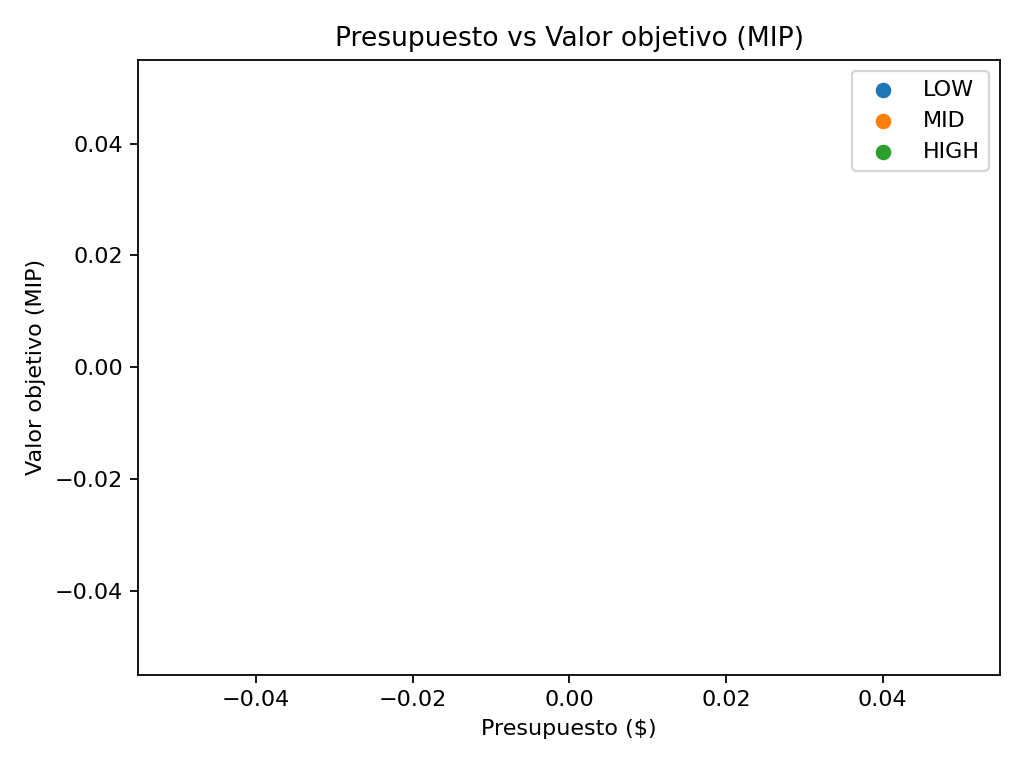
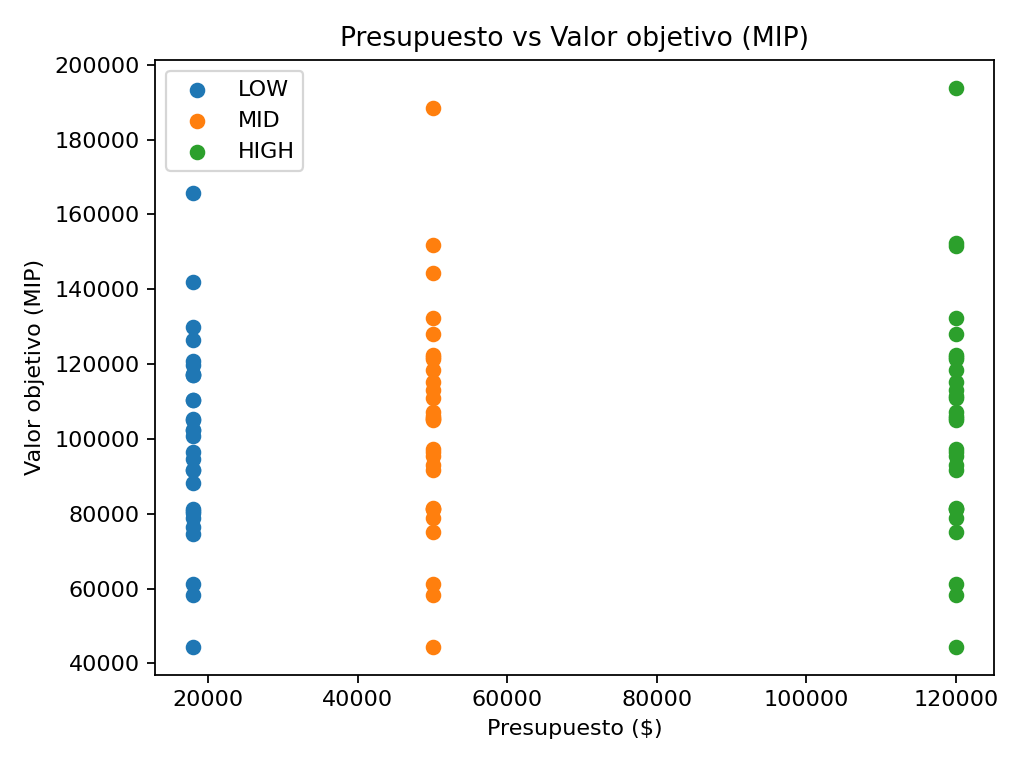
benchmark

diff --git a/optimization/remodel/benchmark_remodel.py b/optimization/remodel/benchmark_remodel.py
@@ -1,4 +1,3 @@
-# optimization/remodel/benchmark_remodel.py
 #!/usr/bin/env python3
 import argparse
 import csv
@@ -9,8 +8,7 @@ import subprocess
 import sys
 from pathlib import Path
 import os
-
-
+import pandas as pd
 import matplotlib.pyplot as plt
 
 # ============== Limpieza / normalización de salida ==============
@@ -39,15 +37,12 @@ def _search_last(pat: re.Pattern, text: str):
 # ============== Patrones (muy permisivos) ==============
 RE_OBJ = re.compile(r'Valor\s*objetivo\s*\(MIP\)\s*:\s*\$?\s*([-\d,\.]+)', re.I | re.U)
 RE_ROI = re.compile(r'\bROI\s*:\s*\$?\s*([-\d,\.]+)', re.I | re.U)
-# En tu print a veces pones un "$" antes del porcentaje; capturamos número + '%'
 RE_PCT_LINE = re.compile(r'Porcentaje\s+Neto\s+de\s+Mejoras\s*:\s*(.+)', re.I | re.U)
-RE_FIRST_NUM = re.compile(r'[-+]?\$?[\d,]+(?:\.\d+)?')     # primer número con comas/decimales
-RE_PERCENT   = re.compile(r'([-+]?\$?[\d,]+(?:\.\d+)?)\s*%')  # número seguido de %
-
+RE_FIRST_NUM = re.compile(r'[-+]?\$?[\d,]+(?:\.\d+)?')
+RE_PERCENT   = re.compile(r'([-+]?\$?[\d,]+(?:\.\d+)?)\s*%')
 RE_RT  = re.compile(r'Tiempo\s*total\s*:\s*([-\d,\.]+)s', re.I | re.U)
 
 def _parse_pct(line_tail: str) -> float | None:
-    # intenta capturar "29%" o "$29%"; si no, primer número
     m = RE_PERCENT.search(line_tail)
     if m:
         return _to_float(m.group(1))
@@ -57,7 +52,6 @@ def _parse_pct(line_tail: str) -> float | None:
     return None
 
 def _fallback_line_value(out: str, starts_with: str) -> float | None:
-    # Busca la última línea que contenga la etiqueta y extrae el primer número
     cand = None
     for ln in out.splitlines():
         if starts_with.lower() in ln.lower():
@@ -65,31 +59,30 @@ def _fallback_line_value(out: str, starts_with: str) -> float | None:
     if not cand:
         return None
     if "Porcentaje Neto de Mejoras" in starts_with:
-        # partir después de ':'
         tail = cand.split(":", 1)[-1] if ":" in cand else cand
         return _parse_pct(tail)
-    # genérico: primer número
     m = RE_FIRST_NUM.search(cand)
     return _to_float(m.group(1)) if m else None
 
-def run_once(pid: int, budget: float, py_exe: str, logdir: Path, tier: str, idx: int) -> dict:
+def run_once(pid: int, budget: float, py_exe: str, logdir: Path, tier: str, idx: int, basecsv: str | None) -> dict:
     cmd = [
         py_exe, "-m", "optimization.remodel.run_opt",
         "--pid", str(pid),
         "--budget", str(float(budget)),
     ]
+    if basecsv:
+        cmd += ["--basecsv", basecsv]
+
     cp = subprocess.run(
         cmd,
         stdout=subprocess.PIPE,
         stderr=subprocess.STDOUT,
         text=True,
-        encoding="utf-8",         # <-- fuerza decodificación UTF-8
-        errors="replace",         # <-- no muere si aparece algo raro
+        encoding="utf-8",         # decodificación UTF-8 (Windows friendly)
+        errors="replace",         # no morir por raros
         check=False,
-        env={**os.environ, "PYTHONIOENCODING": "utf-8"}  # <-- pide al hijo emitir UTF-8
+        env={**os.environ, "PYTHONIOENCODING": "utf-8"}  # hijo emite UTF-8
     )
-    out = cp.stdout or ""
-
     raw = cp.stdout or ""
     out = _clean_text(raw)
 
@@ -102,7 +95,6 @@ def run_once(pid: int, budget: float, py_exe: str, logdir: Path, tier: str, idx:
     m = _search_last(RE_ROI, out)
     if m: roi = _to_float(m.group(1))
 
-    # porcentaje: primero capturamos la línea y luego extraemos número
     m = _search_last(RE_PCT_LINE, out)
     if m:
         pct = _parse_pct(m.group(1))
@@ -120,12 +112,14 @@ def run_once(pid: int, budget: float, py_exe: str, logdir: Path, tier: str, idx:
     if rt is None:
         rt = _fallback_line_value(out, "Tiempo total")
 
+    
+
     ok = (obj is not None and roi is not None and pct is not None)
 
     # 3) Si MISS, guardar log para inspección
     if not ok:
         logdir.mkdir(parents=True, exist_ok=True)
-        log_path = logdir / f"run_{tier}_{idx:02d}.log"
+        log_path = logdir / f"run_{tier}_{idx:02d}_pid{pid}.log"
         try:
             log_path.write_text(raw, encoding="utf-8")
         except Exception:
@@ -155,10 +149,24 @@ def summarize(rows, key):
         "max": max(vals),
     }
 
+def _load_random_pids(basecsv: str, n: int, seed: int) -> list[int]:
+    """Carga PIDs del CSV base y devuelve n PIDs aleatorios únicos (o todos si hay menos)."""
+    df = pd.read_csv(basecsv)
+    if "PID" not in df.columns:
+        raise ValueError(f"El CSV '{basecsv}' no tiene columna 'PID'.")
+    pids = [int(x) for x in df["PID"].dropna().unique().tolist()]
+    random.seed(seed)
+    random.shuffle(pids)
+    return pids[:min(n, len(pids))]
+
 def main():
     ap = argparse.ArgumentParser()
-    ap.add_argument("--pid", type=int, default=528344070, help="PID de la casa (default: 528344070)")
-    ap.add_argument("--trials", type=int, default=50, help="Corridas por tier (default: 50)")
+    ap.add_argument("--basecsv", type=str, required=True,
+                    help="Ruta al CSV base (de donde se toman los PIDs al azar)")
+    ap.add_argument("--n_houses", type=int, default=50,
+                    help="Número de casas distintas a evaluar (default: 50)")
+    ap.add_argument("--trials", type=int, default=None,
+                    help="(Obsoleto en este modo) Ignorado; usamos n_houses * 3 corridas fijas por casa")
     ap.add_argument("--py", type=str, default=sys.executable, help="Python a usar (default: actual)")
     ap.add_argument("--seed", type=int, default=42, help="Semilla aleatoria (default: 42)")
     ap.add_argument("--outdir", type=str, default="bench_out", help="Carpeta de salida (CSV + figuras)")
@@ -169,22 +177,35 @@ def main():
     outdir.mkdir(parents=True, exist_ok=True)
     logdir = outdir / "logs"
 
+    # Tiers y presupuestos fijos (puntos medios de cada rango)
+    # low: 15k–40k → 27,500 | mid: 40k–75k → 57,500 | high: 75k–200k → 137,500
     tiers = {
-        "low":  (15000, 40000),
-        "mid":  (40000, 75000),
-        "high": (75000, 200000),
+        "low":  18_000.0,
+        "mid":  50_000.0,
+        "high": 120_000.0,
     }
 
+    # Cargar PIDs aleatorios de la base
+    pids = _load_random_pids(args.basecsv, args.n_houses, args.seed)
+    if not pids:
+        print("⚠ No se encontraron PIDs en el CSV base.")
+        return
+
+    print(f"Se evaluarán {len(pids)} casas distintas (PIDs aleatorios) con 3 presupuestos fijos por casa.\n")
+
     all_rows = []
-    for tier, (lo, hi) in tiers.items():
-        print(f"\n=== Tier {tier.upper()} | rango ${lo:,} – ${hi:,} | {args.trials} corridas ===")
-        for i in range(args.trials):
-            budget = random.uniform(lo, hi)
-            res = run_once(args.pid, budget, py_exe=args.py, logdir=logdir, tier=tier, idx=i+1)
+    idx_global = 0
+    for j, pid in enumerate(pids, start=1):
+        print(f"=== CASA #{j:02d} | PID={pid} ===")
+        for tier, budget in tiers.items():
+            idx_global += 1
+            res = run_once(pid, budget, py_exe=args.py, logdir=logdir, tier=tier, idx=idx_global, basecsv=args.basecsv)
             res["tier"] = tier
+            res["pid"] = pid
             all_rows.append(res)
             ok = "OK" if res["raw_ok"] else "MISS"
-            print(f"[{tier:>4}] #{i+1:02d} budget=${budget:,.0f} → obj={res['objective_mip']} roi={res['roi']} pct={res['pct_net_improve']} [{ok}]")
+            print(f"[{tier:>4}] budget=${budget:,.0f} → obj={res['objective_mip']} roi={res['roi']} pct={res['pct_net_improve']} [{ok}]")
+        print()
 
     # CSV
     csv_path = outdir / "remodel_benchmark.csv"
@@ -197,7 +218,7 @@ def main():
             w.writerow({k: r.get(k) for k in w.fieldnames})
     print(f"\n✔ Resultados guardados en: {csv_path}")
 
-    # Resumen
+    # Resumen por tier
     print("\n=== RESUMEN POR TIER ===")
     for tier in tiers.keys():
         rows = [r for r in all_rows if r["tier"] == tier and r["raw_ok"]]
@@ -226,8 +247,8 @@ def main():
             print(f"⚠ No hay datos válidos para {ylabel}; se omite figura.")
             return
         fig = plt.figure()
-        plt.boxplot(data, labels=labels)
-        plt.title(f"{ylabel} por tier")
+        plt.boxplot(data, tick_labels=labels)
+        plt.title(f"{ylabel} por tier (presupuestos fijos)")
         plt.ylabel(ylabel)
         plt.xlabel("Tier de presupuesto")
         fig.tight_layout()
@@ -239,7 +260,7 @@ def main():
     boxplot_metric("objective_mip", "Valor objetivo (MIP)", "box_obj_mip.png")
     boxplot_metric("roi", "ROI", "box_roi.png")
 
-    # Barras: % neto de mejoras
+    # Barras: % neto de mejoras promedio por tier
     means, lbls = [], []
     for t in tiers.keys():
         vals = [r["pct_net_improve"] for r in all_rows if r["tier"] == t and r["raw_ok"] and r.get("pct_net_improve") is not None]
@@ -249,7 +270,7 @@ def main():
     if means:
         fig = plt.figure()
         plt.bar(lbls, means)
-        plt.title("Promedio % neto de mejoras por tier")
+        plt.title("Promedio % neto de mejoras por tier (presupuestos fijos)")
         plt.ylabel("% neto de mejoras")
         fig.tight_layout()
         out = outdir / "bar_pct_net.png"
@@ -259,7 +280,8 @@ def main():
     else:
         print("⚠ No hay datos válidos para % neto de mejoras; se omite figura.")
 
-    # Scatter presupuesto vs objetivo
+    # Scatter presupuesto vs objetivo (trivial aquí porque presupuesto es fijo por tier,
+    # pero sirve para la presentación igualmente con clusters por tier).
     any_ok = any(r["raw_ok"] and r.get("objective_mip") is not None for r in all_rows)
     if any_ok:
         tier_colors = {"low": "tab:blue", "mid": "tab:orange", "high": "tab:green"}
